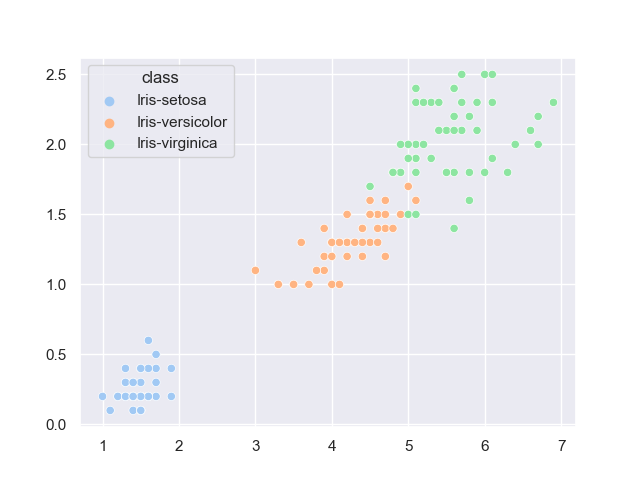
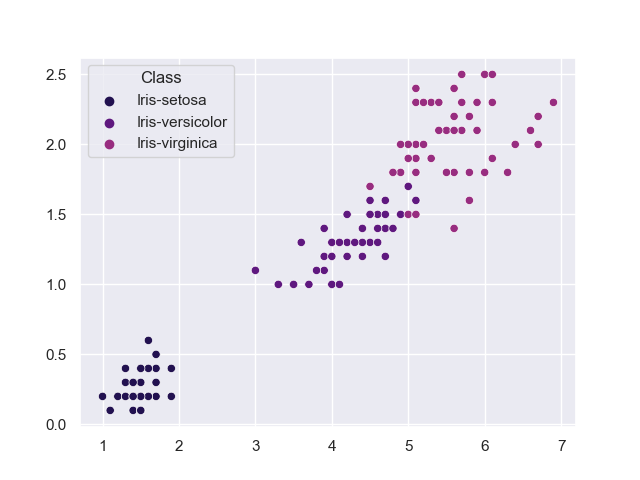
readme

diff --git a/analysis.py b/analysis.py
@@ -8,7 +8,7 @@ import seaborn as sns
 
 
 pd.set_option("precision", 2) # set pandas decimal precision
-sns.set_theme(palette="pastel") #set color seaborn plots
+sns.set_theme(palette="magma") #set color seaborn plots
 
 # Define functions
 def appendTable(input,title):
@@ -33,7 +33,7 @@ with open("output.txt", "w") as f:  # want a new file - open in write mode/
 
 # Import data
 datafile = "iris.data"
-variableNames = ["sepal-lenght","sepal-width","petal-lenght","petal-width","class"]
+variableNames = ["Sepal-Lenght","Sepal-Width","Petal-Lenght","Petal-Width","Class"]
 data = pd.read_csv(datafile,header = None, names = variableNames ) 
 
 # summary statistics
@@ -51,9 +51,9 @@ appendText(summaryDesc)
 # histograms
 
 
-for i in variableNames:
+for i in ["Sepal-Lenght","Sepal-Width","Petal-Lenght","Petal-Width"]:
 
-    sns.histplot(data=data, x=i, hue="class", multiple="stack",bins=15,)
+    sns.histplot(data=data, x=i, hue="Class", multiple="stack",bins=15,kde=True) # remove class for kde 
     sns.light_palette("seagreen", as_cmap=True)
     plt.xlabel(i+" in cm")
     plt.title("Histogram of " + i)
@@ -64,40 +64,40 @@ for i in variableNames:
 
 # Data as arrays
 
-sepalLenght = data["sepal-lenght"].to_numpy()
-sepalWidth = data["sepal-width"].to_numpy()
-petalLenght = data["petal-lenght"].to_numpy()
-petalWidth = data["petal-width"].to_numpy()
+sepalLenght = data["Sepal-Lenght"].to_numpy()
+sepalWidth = data["Sepal-Width"].to_numpy()
+petalLenght = data["Petal-Lenght"].to_numpy()
+petalWidth = data["Petal-Width"].to_numpy()
 
 
 # scatter plots
 
 xVariables = [sepalLenght,sepalLenght,sepalLenght,sepalWidth,sepalWidth,petalLenght]
 yVariables = [sepalWidth,petalLenght,petalWidth,petalWidth,petalLenght,petalWidth]
-Titles = ["sepal-lenght sepal-width","sepal-lenght petal-lenght","sepal-lenght petal-width",\
-"sepal-width petal-width","sepal-width petal-lenght","petal-lenght petal-width"]
+Titles = ["Sepal-Lenght Sepal-Width","Sepal-Lenght Petal-Lenght","Sepal-Lenght Petal-Width",\
+"Sepal-Width Petal-Width","Sepal-Width Petal-Lenght","Petal-Lenght Petal-Width"]
 
 
 for i, j, k in zip(xVariables,yVariables,Titles):
     #plt.scatter(i,j)
-    sns.scatterplot(data=data, x=i, y=j,hue="class")
+    sns.scatterplot(data=data, x=i, y=j,hue="Class")
     plt.savefig(k)
     plt.close()
     
 
 
 # summary statistics by iris class
-groupMeans = data.groupby(["class"]).mean()
+groupMeans = data.groupby(["Class"]).mean()
 appendTable(groupMeans,"\n Group Means")
-groupDesc = data.groupby(["class"]).describe(percentiles = [])
+groupDesc = data.groupby(["Class"]).describe(percentiles = [])
 appendTable(groupDesc,"\n Descriptive Statistics by Class")
 
 
 
 # group by class
-irisSetosa = data.loc[data["class"] == "Iris-setosa"]
-IrisVersicolor = data.loc[data["class"] == "Iris-versicolor"]
-IrisVirginica = data.loc[data["class"] == "Iris-virginica"]
+irisSetosa = data.loc[data["Class"] == "Iris-setosa"]
+IrisVersicolor = data.loc[data["Class"] == "Iris-versicolor"]
+IrisVirginica = data.loc[data["Class"] == "Iris-virginica"]
 
 
 
@@ -105,18 +105,18 @@ IrisVirginica = data.loc[data["class"] == "Iris-virginica"]
 #statistical tests
 
 #F-Test petal lenght
-a = irisSetosa["petal-lenght"].to_numpy()
-b = IrisVersicolor["petal-lenght"].to_numpy()
-c = IrisVirginica["petal-lenght"].to_numpy()
+a = irisSetosa["Petal-Lenght"].to_numpy()
+b = IrisVersicolor["Petal-Lenght"].to_numpy()
+c = IrisVirginica["Petal-Lenght"].to_numpy()
 
 petalLenghtTest = f_oneway(a,b,c)
 appendText("Petal-Lenght F-Test")
 appendText(repr(petalLenghtTest))
 
 #F-Test petal width
-a = irisSetosa["petal-width"].to_numpy()
-b = IrisVersicolor["petal-width"].to_numpy()
-c = IrisVirginica["petal-width"].to_numpy()
+a = irisSetosa["Petal-Width"].to_numpy()
+b = IrisVersicolor["Petal-Width"].to_numpy()
+c = IrisVirginica["Petal-Width"].to_numpy()
 
 
 petalWidthTest = (f_oneway(a,b,c))
@@ -124,18 +124,18 @@ appendText("Petal-Width F-Test")
 appendText(repr(petalWidthTest))
 
 #F-Test sepal lenght
-a = irisSetosa["sepal-lenght"].to_numpy()
-b = IrisVersicolor["sepal-lenght"].to_numpy()
-c = IrisVirginica["sepal-lenght"].to_numpy()
+a = irisSetosa["Sepal-Lenght"].to_numpy()
+b = IrisVersicolor["Sepal-Lenght"].to_numpy()
+c = IrisVirginica["Sepal-Lenght"].to_numpy()
 
 sepalLenghtTest = f_oneway(a,b,c)
 appendText("Sepal-Lenght F-Test")
 appendText(repr(sepalLenghtTest))
 
 #F-Test sepal width
-a = irisSetosa["sepal-width"].to_numpy()
-b = IrisVersicolor["sepal-width"].to_numpy()
-c = IrisVirginica["sepal-width"].to_numpy()
+a = irisSetosa["Sepal-Width"].to_numpy()
+b = IrisVersicolor["Sepal-Width"].to_numpy()
+c = IrisVirginica["Sepal-Width"].to_numpy()
 
 sepalLenghtTest = f_oneway(a,b,c)
 appendText("Sepal-Width F-Test")

diff --git a/README.md b/README.md
@@ -21,30 +21,30 @@
 The iris data set is available from the UCI machine learning repository [1]. It is a frequently used database for demonstrating tools in data anaylsis [2]. The data set consists of 150 observations of iris plants.  Five attributes are recorded. Sepal lenght , sepal width, petal length, petal width,  are measured in centimeters. The class if also given which refers to the type of iris plant. There are three classes with 50 obervations of each, namely Iris Setosa, Iris Versicolour and Iris Virginica. The data set was famously used in a study meausring how these three classes of iris could best be differentiated based on their measurements [3]. 
 
 
-[1] https://archive.ics.uci.edu/ml/datasets/iris
-[2] https://www.sciencedirect.com/topics/mathematics/iris-data
-[3] Fisher,R.A. "The use of multiple measurements in taxonomic problems" Annual Eugenics, 7, Part II, 179-188 (1936); also in "Contributions to Mathematical Statistics" (John Wiley, NY, 1950).
+[1] https://archive.ics.uci.edu/ml/datasets/iris<br> 
+[2] https://www.sciencedirect.com/topics/mathematics/iris-data<br> 
+[3] Fisher,R.A. "The use of multiple measurements in taxonomic problems" Annual Eugenics, 7, Part II, 179-188 (1936); also in "Contributions to Mathematical Statistics" (John Wiley, NY, 1950).<br> 
 
 # Opening the Data
 For opening the data stored in a csv file I used [4] as  a reference. I decided to use the pandas module to import the data as it made it easy to write the code. With one line of code I could import the data and store it as a data frame. This is a familiar data structure, with the rows showing different observations and the columns their respective attributes. Pandas also offers many other useful features, for example manipulating or visualising data [5]. 
 
-[4] https://realpython.com/python-csv/
-[5] https://pandas.pydata.org/docs/user_guide/index.html#user-guide
+[4] https://realpython.com/python-csv/<br> 
+[5] https://pandas.pydata.org/docs/user_guide/index.html#user-guide<br> 
 
 
 # Output File
 To save the output from the analysis I output my results to output.txt. I use a with statement to shorten the code and deal with error handling [6]. To creat the text file I use the function open() which takes the file name and the mode as its arguements. I open the file in write mode to create a new file when the program starts. To append the output of my results I write an append() function. This uses the file output.txt and opens it in append mode. 
 
 
-[6] https://www.geeksforgeeks.org/with-statement-in-python/#:~:text=with%20statement%20in%20Python%20is,with%20statement%20makes%20code%20cleaner.
-[7] https://realpython.com/working-with-files-in-python/
+[6] https://www.geeksforgeeks.org/with-statement-in-python/#:~:text=with%20statement%20in%20Python%20is,with%20statement%20makes%20code%20cleaner.<br> 
+[7] https://realpython.com/working-with-files-in-python/<br> 
 
 # Summary Statistics
 To create summary statistics for the variables I used the describe() funtion from the pandas module . The describe funtion can be used to generate summary statistics for a variable, such as the mean, standard deviation and percentiles. To output the summary tables to the text file, I first convert the data to text and use the inbuilt write funtion to append the tables. This is a flexible method, which allows titles and text to be added to the tables [7]. I use the option pd.set_option("precision", 2) whichs limit the number of decimal places, making the tables easier to read. 
 
-[6] https://pandas.pydata.org/docs/user_guide/basics.html#descriptive-statistics
-[7] https://stackoverflow.com/questions/43423950/how-to-print-title-above-pandas-dataframe-to-csv
-[8] https://pandas.pydata.org/pandas-docs/stable/user_guide/options.html#frequently-used-options
+[6] https://pandas.pydata.org/docs/user_guide/basics.html#descriptive-statistics<br> 
+[7] https://stackoverflow.com/questions/43423950/how-to-print-title-above-pandas-dataframe-to-csv<br> 
+[8] https://pandas.pydata.org/pandas-docs/stable/user_guide/options.html#frequently-used-options<br> 
 
 
 # Histograms
@@ -56,33 +56,37 @@ use a historgrom using two indices, one for the variable name and title and anot
 ![alt-text-1](petal-lenght.png "title-1") | ![alt-text-2](petal-width.png "title-2")|
 ![alt-text-1](sepal-lenght.png "title-1") | ![alt-text-2](sepal-width.png "title-2")|
 
-[9] https://matplotlib.org/stable/api/_as_gen/matplotlib.pyplot.hist.html#matplotlib.pyplot.hist
-[10]https://matplotlib.org/stable/gallery/statistics/hist.html#sphx-glr-gallery-statistics-hist-py
-[11]https://stackoverflow.com/questions/18648626/for-loop-with-two-variables
-[12]https://stackoverflow.com/questions/37734512/savefig-loop-adds-previous-plots-to-figure
-[13]https://matplotlib.org/3.1.1/tutorials/colors/colors.html
-https://seaborn.pydata.org/generated/seaborn.histplot.html?highlight=histplot#seaborn.histplot
-https://seaborn.pydata.org/generated/seaborn.color_palette.html#seaborn.color_palette
+[9] https://matplotlib.org/stable/api/_as_gen/matplotlib.pyplot.hist.html#matplotlib.pyplot.hist<br> 
+[10]https://matplotlib.org/stable/gallery/statistics/hist.html#sphx-glr-gallery-statistics-hist-py<br> 
+[11]https://stackoverflow.com/questions/18648626/for-loop-with-two-variables<br> 
+[12]https://stackoverflow.com/questions/37734512/savefig-loop-adds-previous-plots-to-figure<br> 
+[13]https://matplotlib.org/3.1.1/tutorials/colors/colors.html<br> 
+https://seaborn.pydata.org/generated/seaborn.histplot.html?highlight=histplot#seaborn.histplot<br> 
+https://seaborn.pydata.org/generated/seaborn.color_palette.html#seaborn.color_palette<br> 
 
 
 # Data as Arrays
 Storing the columns as arrays is useful in the case that the whole data frame is not needed. It is also necessary for some of the plotting functions in matplotlib, which do not allow for dataframe inputs. The dataFrame.to_numpy() function converts a dataframe object type to a numpy array. dataFrame is the name of the dataframe object, in my case data. In order to get an array for each column or variable I select columns from the data frame using dataFrame("column name") [14]
 
 
-[14] https://pandas.pydata.org/docs/user_guide/10min.html
-[15] https://pandas.pydata.org/docs/reference/api/pandas.DataFrame.to_numpy.html#pandas.DataFrame.to_numpy
-[16] https://stackoverflow.com/questions/46122910/display-print-one-column-from-a-dataframe-of-series-in-pandas
+[14] https://pandas.pydata.org/docs/user_guide/10min.html<br> 
+[15] https://pandas.pydata.org/docs/reference/api/pandas.DataFrame.to_numpy.html#pandas.DataFrame.to_numpy<br> 
+[16] https://stackoverflow.com/questions/46122910/display-print-one-column-from-a-dataframe-of-series-in-pandas<br> 
 
 
 
 # Scatter Plots
 I created a scatter plot of the the variables using the scatter() function from matplotlib. I use the default paramaters (x,y) to plot 6 pairs of variables. Matplotlib handles the other parts of creating the graph, such as creating the figure and axis. The other funtions I use are plt.savefig(), and plt.close(). Plt.savefig() takes the filename as a paramater and plt.close() is necessary to create a new figure, so that the individual plots, plt.scatter(), are created seperately. To reduce the lines in the code I use a zip() function 
 This allows for parallel iteration [19]. Note there are four variables in total, however the class variable is categorical so I omit it in the scatter plots. 
+|                                         |                                         |
+|:---------------------------------------:|:---------------------------------------:|                             
+![alt-text-1](petal-lenght petal-width.png "title-1") | ![alt-text-2](sepal-lenght petal-lenght.png "title-2")|
+![alt-text-1](sepal-lenght petal-width.png "title-1") | ![alt-text-2](sepal-lenght sepal-width.png "title-2")|
+![alt-text-1](sepal-width petal-lenght.png "title-1") | ![alt-text-2](sepal-width petal-width.png "title-2")|
 
-
-[17]https://matplotlib.org/stable/api/_as_gen/matplotlib.pyplot.scatter.html
-[18]https://www.w3schools.com/python/python_for_loops.asp
-[19]1https://realpython.com/python-zip-function/#:~:text=Python's%20zip()%20function%20is,%2C%20sets%2C%20and%20so%20on.
+[17]https://matplotlib.org/stable/api/_as_gen/matplotlib.pyplot.scatter.html<br> 
+[18]https://www.w3schools.com/python/python_for_loops.asp<br> 
+[19]1https://realpython.com/python-zip-function/#:~:text=Python's%20zip()%20function%20is,%2C%20sets%2C%20and%20so%20on.<br> 
 
 
 # Additional Analysis
@@ -94,17 +98,17 @@ To get summary statistics for each class of iris plant I first need to group the
   
 
  
-[20]https://pandas.pydata.org/pandas-docs/stable/reference/api/pandas.DataFrame.groupby.html
-[21] https://pandas.pydata.org/docs/user_guide/10min.html?highlight=group#grouping
-[22] https://pandas.pydata.org/docs/reference/api/pandas.DataFrame.describe.html
+[20]https://pandas.pydata.org/pandas-docs/stable/reference/api/pandas.DataFrame.groupby.html<br> 
+[21] https://pandas.pydata.org/docs/user_guide/10min.html?highlight=group#grouping<br> 
+[22] https://pandas.pydata.org/docs/reference/api/pandas.DataFrame.describe.html<br> 
 
 
 
 # Group by Class
 For the statistical test I need to be able to seperate the data by class. Using the function loc[] I can specify the data to select based on a column and condition. loc[] takes label values, for example a row or column name, and boolean arrays. I use these features to select the groups which are the same class. Seperating the data helps in future testing as it makes it easier to refer a particular data. 
 
-[26] https://stackoverflow.com/questions/17071871/how-to-select-rows-from-a-dataframe-based-on-column-values
-[27] https://pandas.pydata.org/docs/reference/api/pandas.DataFrame.loc.html
+[26] https://stackoverflow.com/questions/17071871/how-to-select-rows-from-a-dataframe-based-on-column-values<br> 
+[27] https://pandas.pydata.org/docs/reference/api/pandas.DataFrame.loc.html<br> 
 
 # Statistical Tests
 I am interested seeing how the variables, such as sepal lenght, vary across the different classes. It is therefore worth testing  whether the variation between classes observed in the summary statistics is due to chance or whether it is due to differences across the classes. To test this I use one-way ANOVA, which is used to test whether there are any statistically significant differences between the means of two or more groups [25]. The groups are the different classes, setosa, versicolor and virginica and there are four means: sepal lenght, sepal width, petal lenght and petal width . The F-Test is used with the the null hypthoses that the means, such as speal lenght, are equal across the groups (&mu;<sub>setosa;</sub> = &mu;<sub>versicolor;</sub> = &mu;<sub>virginica;</sub>.  
@@ -115,11 +119,11 @@ My result allow me to reject the null hpyothesis that the measurements are the s
 
 
 
-[24] https://docs.scipy.org/doc/scipy/reference/tutorial/stats.html
-[25] https://www.statisticshowto.com/probability-and-statistics/hypothesis-testing/anova/
-[26] https://medium.com/@rrfd/f-tests-and-anovas-examples-with-the-iris-dataset-fe7caa3e21d0 
-[27] https://docs.scipy.org/doc/scipy/reference/generated/scipy.stats.f_oneway.html#scipy.stats.f_oneway
-[28] https://www.w3schools.com/python/scipy_statistical_significance_tests.asp
+[24] https://docs.scipy.org/doc/scipy/reference/tutorial/stats.html<br> 
+[25] https://www.statisticshowto.com/probability-and-statistics/hypothesis-testing/anova/<br> 
+[26] https://medium.com/@rrfd/f-tests-and-anovas-examples-with-the-iris-dataset-fe7caa3e21d0<br> 
+[27] https://docs.scipy.org/doc/scipy/reference/generated/scipy.stats.f_oneway.html#scipy.stats.f_oneway<br> 
+[28] https://www.w3schools.com/python/scipy_statistical_significance_tests.asp<br> 
 
 
 
